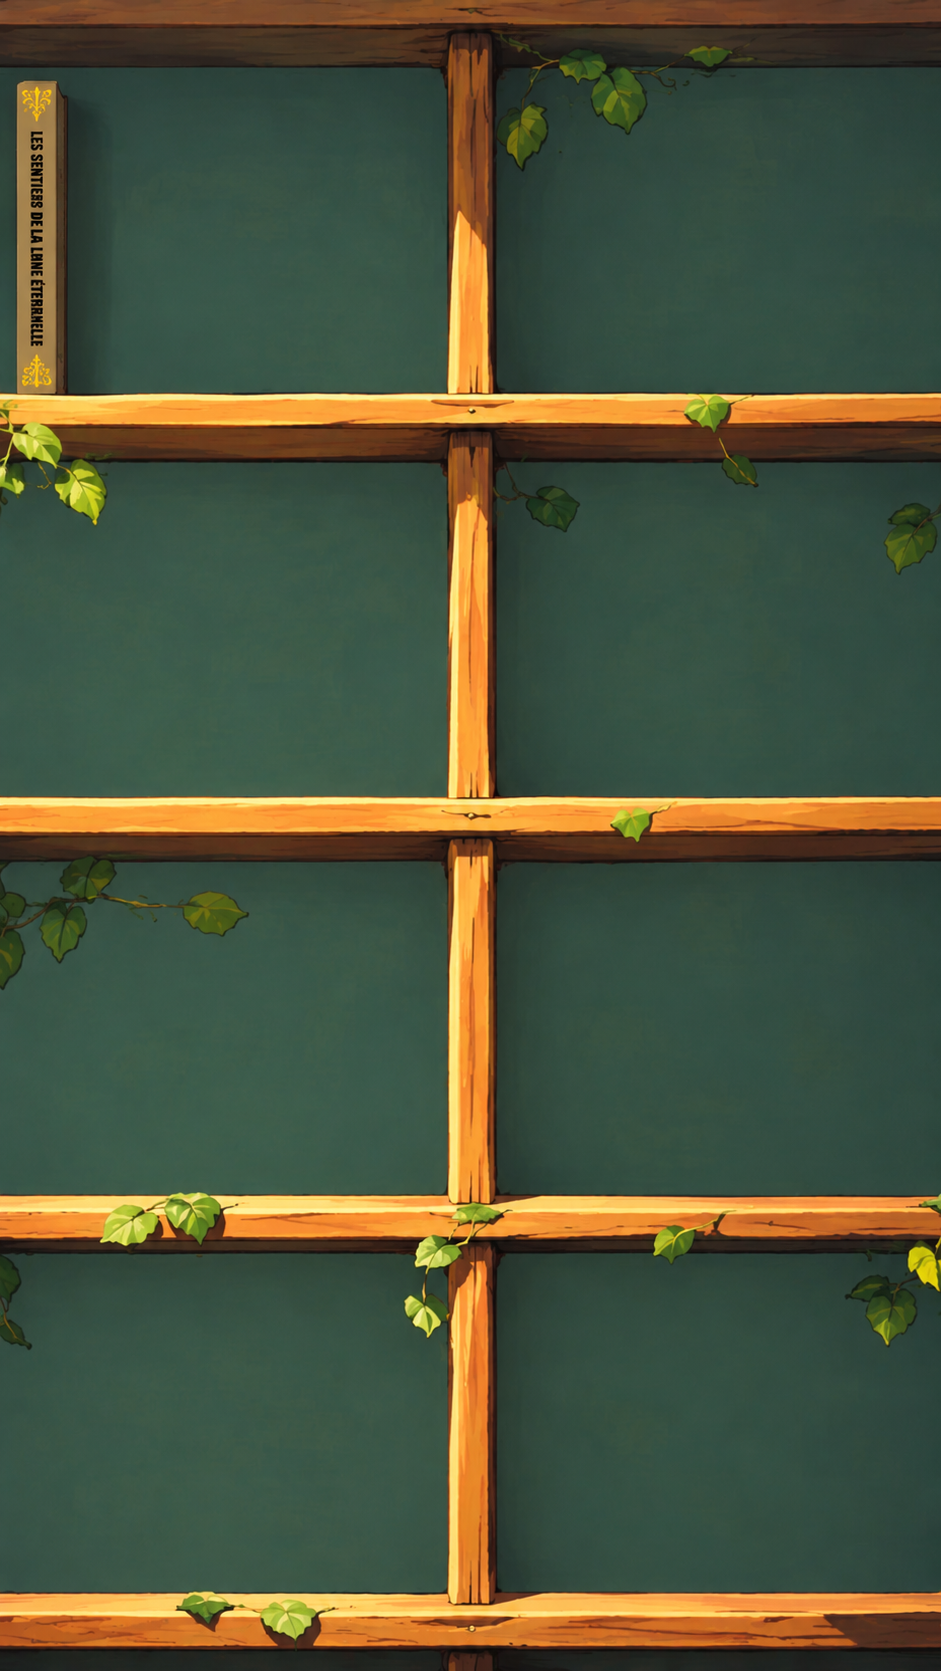
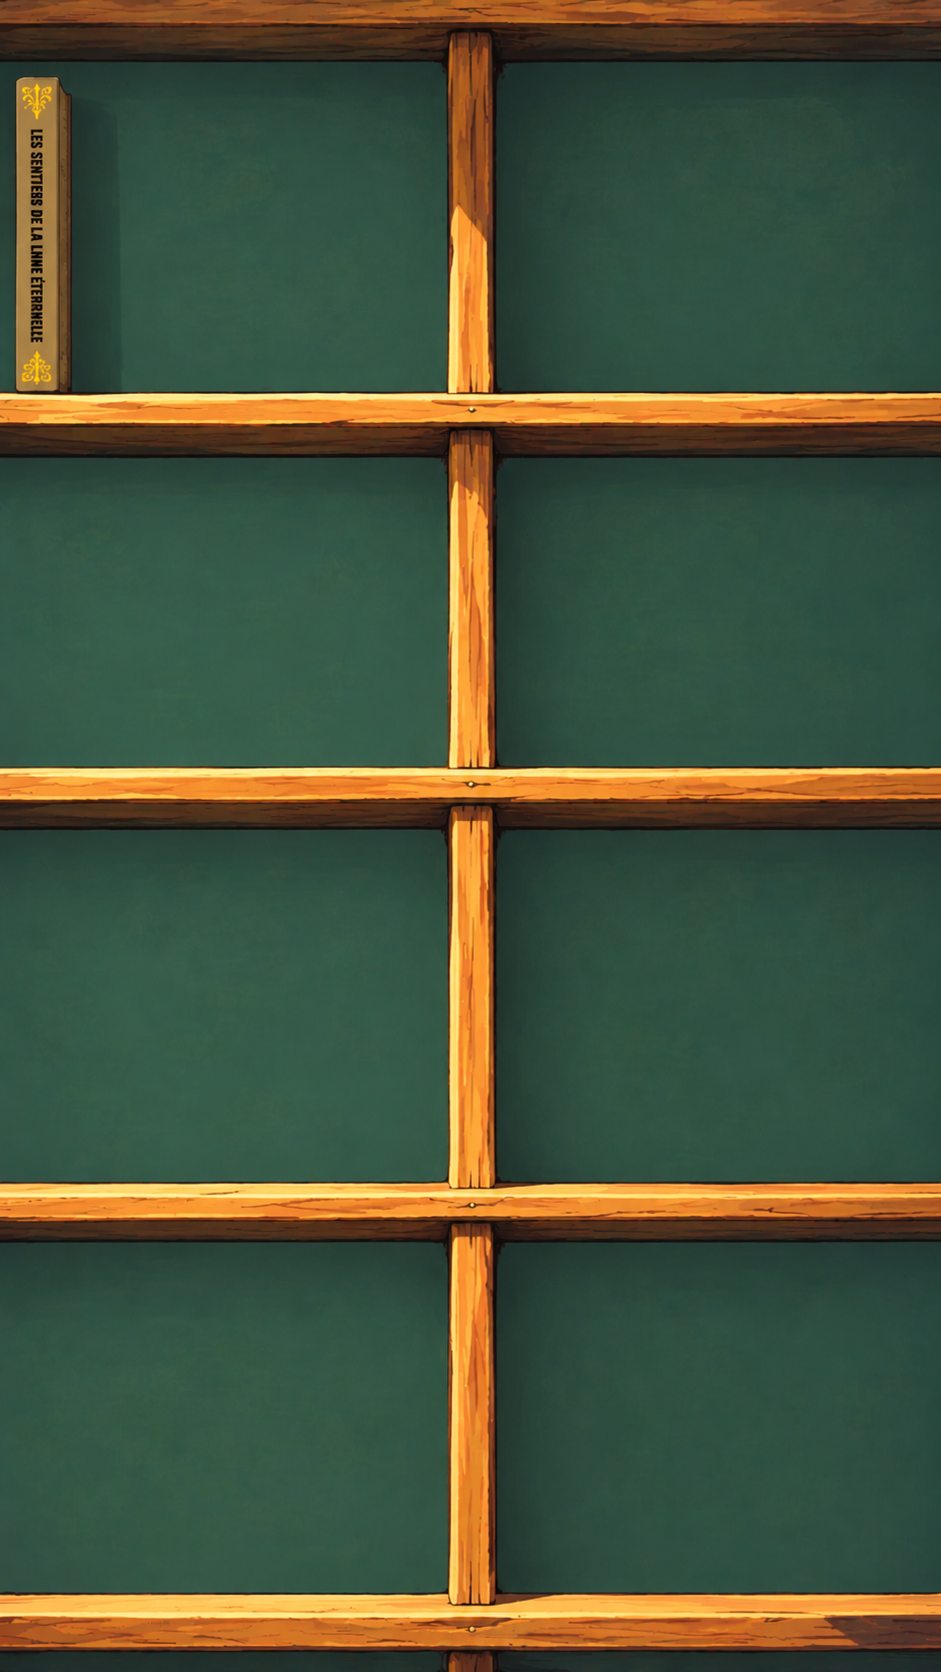
maj

Changed region(s): [[0.0, 0.0, 1.0, 1.0], [0.1541, 0.0, 1.0, 0.0934], [0.0, 0.9647, 0.0308, 0.9958]]

diff --git a/html2/labibliotheque.html b/html2/labibliotheque.html
@@ -74,11 +74,11 @@
     <main class="main" id="main-content" style="padding-bottom: 40px;">
         <div class="container">
             <div class="presentation feuillet-presentation characters-presentation">
-                <div class="presentation-bg2">
-                <img src="../images/fondmain/bibliotheque.png" alt="image bibliotheque" title="bibliotheque">
+                <div class="presentation-bg2 bibliotheque-panel">
+                    <img class="bibliotheque-image" src="../images/fondmain/bibliotheque.png" alt="Bibliothèque" title="Bibliothèque">
+                </div>
             </div>
         </div>
-     </div>   
     </main>
 
     <footer class="footer">

diff --git a/styles.css b/styles.css
@@ -2079,6 +2079,19 @@ body.index-page .intro-site-bg {
     line-height: 1.4;
 }
 
+.bibliotheque-panel {
+    overflow: hidden;
+}
+
+.bibliotheque-image {
+    display: block;
+    width: 100%;
+    max-width: 100%;
+    height: auto;
+    border-radius: inherit;
+    object-fit: contain;
+}
+
 .presentation-bg2 p,
 .presentation-bg2 .key-point,
 .presentation-bg2 .alternative-intro,
